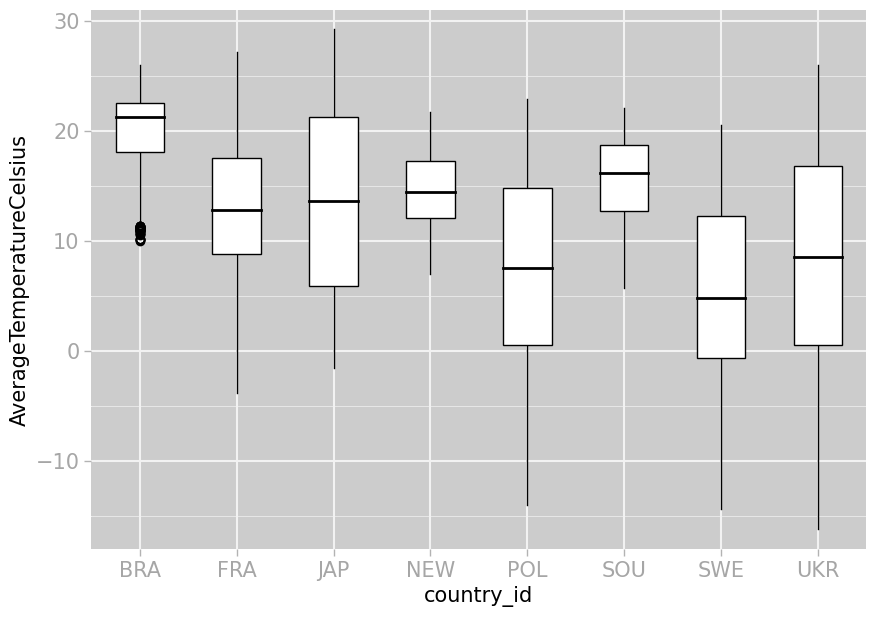
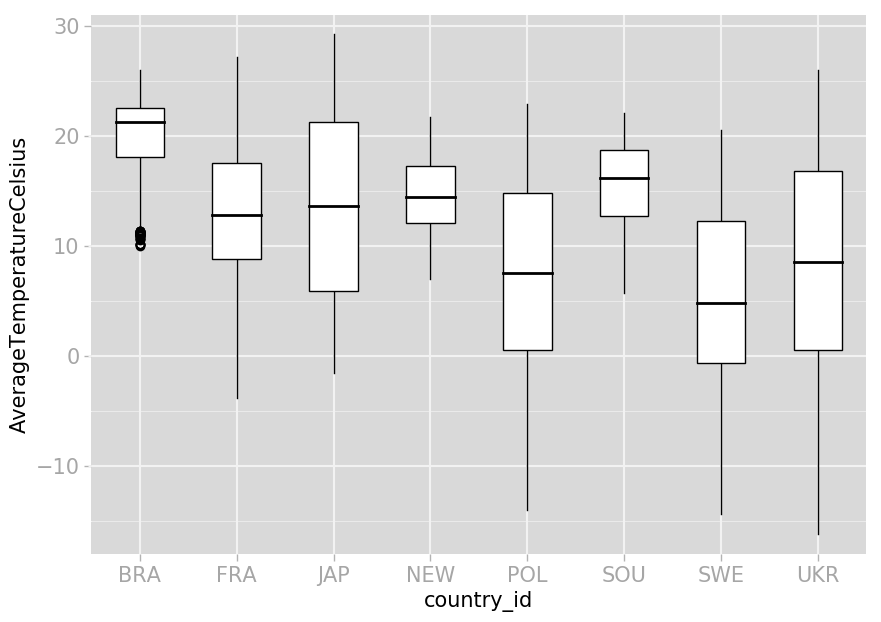
task4b-c finsihed

diff --git a/scripts_and_plots/task4c.py b/scripts_and_plots/task4c.py
@@ -1,0 +1,71 @@
+#!/usr/bin/python3
+import pandas as pd
+import argparse
+import matplotlib.pyplot as plt
+import utility as ut
+import matplotlib.cm as cm
+import numpy as np
+import matplotlib.patches as mpatches
+
+def main():
+    parser = argparse.ArgumentParser()
+    parser.add_argument('-i', '--input_file', type=str, help='input .csv file')
+    parser.add_argument('-s', '--show_save', type=str, help='presenting plot; mode: 0(showing plot), 1(saving plot to given path)')
+    args = parser.parse_args()
+
+    df = pd.read_csv(filepath_or_buffer=args.input_file)
+
+    trans_dict = ut.trans_of_shorts(args.input_file)
+
+    values = df.groupby(['country_id', 'year', 'City'])['AverageTemperatureCelsius'].mean()
+    cos = df.groupby(['country_id']).apply(lambda grp: grp.groupby('year')['AverageTemperatureCelsius'].mean().to_dict()).to_dict()
+
+    # assigning columns' to the proper axes
+    x_axis = 'year'
+    y_axis = 'CountryAverage'
+
+    fig, ax = plt.subplots(figsize=(10, 7))
+
+    # crea
+    countries_to_legend = list(cos.keys())
+    countries_to_legend.sort()
+    colors = cm.gist_rainbow(np.linspace(0, 1, len(countries_to_legend)))   # create array of colors
+    colors = np.delete(colors, -1, axis=1)  # remove alpha column
+    colors[:, 0:3] *= 0.8    # darken colors
+
+    # country_id:color
+    dict_of_colors = {}
+    for country, color in zip(countries_to_legend, colors):
+        dict_of_colors[country] = color
+
+    dict_for_legend = {}
+
+    # plotting and translating country_ids to countries to ax.legend()
+    for country, temps_per_year in cos.items():
+        dict_for_legend[trans_dict[country]] = dict_of_colors[country]  # translate country_ids to full countries in new dict
+        ax.plot(list(temps_per_year.keys()), list(temps_per_year.values()), color=dict_of_colors[country], alpha=0.8, linewidth=2, label=trans_dict[country])
+
+    # add and customize legend
+    plt.legend(dict_for_legend)
+    handles, labels = ax.get_legend_handles_labels()
+    black_patch = mpatches.Patch(color='gainsboro', alpha=0.5)
+    handles = [(black_patch, handle) for handle in handles]
+    plt.legend(handles, labels, title='$\\bf{Country}$', title_fontsize=19, loc='center left', bbox_to_anchor=(1, 0.5), frameon=False, fontsize=16, handlelength=2, handleheight=1.5)._legend_box.align = "left"
+
+    # set title of axes
+    ax.set_ylabel(y_axis, fontsize=18)
+    ax.set_xlabel(x_axis, fontsize=18)
+
+    # applying styles of plotting area
+    ut.plot_gui_setup_time(ax, plt)
+
+    print('Plotting fig')
+    if args.show_save == '0':
+        plt.show()
+    else:
+        plt.savefig('plots/task4c.png', bbox_inches='tight')
+        print('Saving plot in plots dir.')
+    print('Done')
+
+if __name__ == '__main__':
+    main()

diff --git a/scripts_and_plots/task4b.py b/scripts_and_plots/task4b.py
@@ -1,4 +1,5 @@
 #!/usr/bin/python3
+import pandas as pd
 import argparse
 import matplotlib.pyplot as plt
 import utility as ut
@@ -10,41 +11,32 @@ def main():
     parser.add_argument('-s', '--show_save', type=str, help='presenting plot; mode: 0(showing plot), 1(saving plot to given path)')
     args = parser.parse_args()
 
-    # assigning columns' to the proper axes
-    x_axis = 'country_id'
-    y_axis = 'AverageTemperatureCelsius'
+    df = pd.read_csv(filepath_or_buffer=args.input_file)
+    values = df.groupby(['country_id', 'year', 'City'])['AverageTemperatureCelsius'].mean()
+    cos = df.groupby(['country_id']).apply(lambda grp: grp.groupby('year')['AverageTemperatureCelsius'].mean().to_dict()).to_dict()
 
-    data = ut.data_for_box(args.input_file, xax=x_axis, yax=y_axis)
+    # assigning columns' to the proper axes
+    x_axis = 'year'
+    y_axis = 'CountryAverage'
 
     fig, ax = plt.subplots(figsize=(10, 7))
-    country = data[0]
-    temps = data[1]
 
-    # plotting boxplot
-    bp = ax.boxplot(temps, patch_artist=True, widths=0.5)
-    ax.set_ylim(ut.max_min(temps)[2:4])
-
-    # applying styles to boxes
-    ut.boxes_style(bp)
-
-    # custom x-axis labels
-    ax.set_xticklabels(country)
+    countries_to_legend = list(cos.keys())
+    for country, temps_per_year in cos.items():
+        ax.plot(list(temps_per_year.keys()), list(temps_per_year.values()), color='black')
 
     # set title of axes
     ax.set_ylabel(y_axis, fontsize=15)
     ax.set_xlabel(x_axis, fontsize=15)
 
-    # change fill color
-    [box.set(facecolor='white') for box in bp['boxes']]
-
     # applying styles of plotting area
-    ut.plot_gui_setup_box(ax, plt)
+    ut.plot_gui_setup_time(ax, plt)
 
     print('Plotting fig')
     if args.show_save == '0':
         plt.show()
     else:
-        plt.savefig('plots/task3a.png', bbox_inches='tight')
+        plt.savefig('plots/task4b.png', bbox_inches='tight')
         print('Saving plot in plots dir.')
     print('Done')
 

diff --git a/scripts_and_plots/utility.py b/scripts_and_plots/utility.py
@@ -3,6 +3,11 @@
 import csv
 import collections
 import numpy as np
+import numpy as np
+import matplotlib.pyplot as plt
+from matplotlib import colors as mcolors
+import colorsys
+from matplotlib.colors import LinearSegmentedColormap as lsc
 
 # possible key_value: year, country_id, Country
 def dict_to_plot(list, x_axis, y_axis):
@@ -80,7 +85,7 @@ def data_for_box(file_path, xax, yax):
 def main_style(ax, plt):
     # background and grid
     ax.set_axisbelow(True)  # grid behind scatter
-    ax.set_facecolor('0.8') # background colour
+    ax.set_facecolor('0.85') # background colour
     ax.grid(which='major', b=True, linestyle='-', linewidth=1.5, color='0.95')
     ax.grid(which='minor', b=True, linestyle='-', linewidth=.5, color='0.95')
 
@@ -123,11 +128,38 @@ def plot_gui_setup_box(ax, plt):
     main_style(ax, plt)
     return ax, plt
 
+def plot_gui_setup_time(ax, plt):
+    # setting values of ticks for future grid
+    major_xticks = np.arange(1800, 2100, 100)
+    major_yticks = np.arange(0, 25, 5)
+    minor_xticks = np.arange(1750, 2000, 50)
+    minor_yticks = np.arange(-5, 20, 2.5)
+
+    ax.set_xticks(major_xticks)
+    ax.set_yticks(major_yticks)
+    ax.set_xticks(minor_xticks, minor=True)
+    ax.set_yticks(minor_yticks, minor=True)
+
+    main_style(ax, plt)
+    return ax, plt
+
 def boxes_style(bp):
     # change color and linewidth of the medians
     [median.set(color='black', linewidth=2) for median in bp['medians']]
 
     # change color and linewidth of the caps
     [cap.set(linewidth=0) for cap in bp['caps']]
+
+    return bp
+
+def trans_of_shorts(file):
+    data = open_file(file)
+    dict_of_shorts = {}
+
+    for row in data:
+        if row[6] not in dict_of_shorts.keys():
+            dict_of_shorts[row[6]] = row[7]
+    return dict_of_shorts
+
 
 

diff --git a/scripts_and_plots/task2b.py b/scripts_and_plots/task2b.py
@@ -2,7 +2,7 @@
 import argparse
 import matplotlib.pyplot as plt
 import utility as ut
-import numpy as np
+
 
 def main():
     parser = argparse.ArgumentParser()

diff --git a/scripts_and_plots/task2c.py b/scripts_and_plots/task2c.py
@@ -2,7 +2,7 @@
 import argparse
 import matplotlib.pyplot as plt
 import utility as ut
-import numpy as np
+
 
 def main():
     parser = argparse.ArgumentParser()

diff --git a/scripts_and_plots/task2d.py b/scripts_and_plots/task2d.py
@@ -2,7 +2,7 @@
 import argparse
 import matplotlib.pyplot as plt
 import utility as ut
-import numpy as np
+
 
 def main():
     parser = argparse.ArgumentParser()

diff --git a/scripts_and_plots/task3c.py b/scripts_and_plots/task3c.py
@@ -2,7 +2,7 @@
 import argparse
 import matplotlib.pyplot as plt
 import utility as ut
-import numpy as np
+
 
 def main():
     parser = argparse.ArgumentParser()
